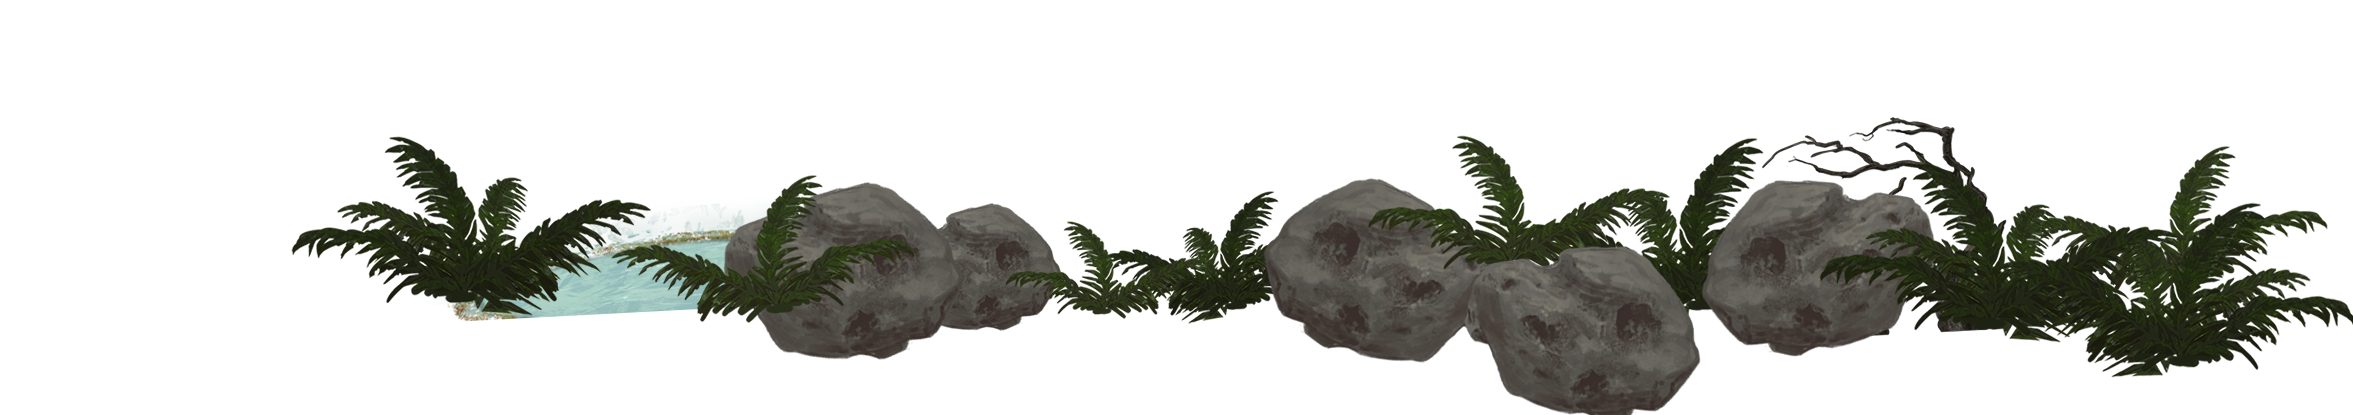
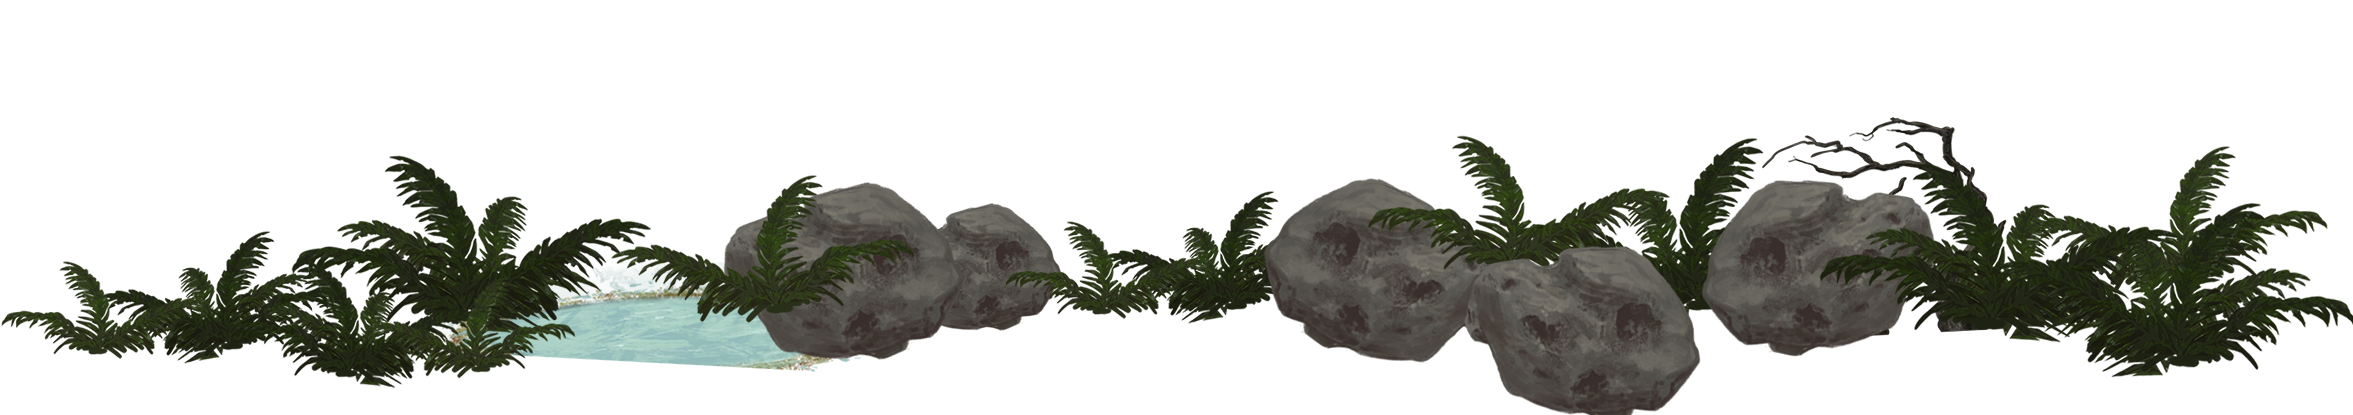
Effect parallax to extras elements

Changed region(s): [[0.0, 0.3181, 0.3723, 0.9253]]

diff --git a/js/player.js b/js/player.js
@@ -66,7 +66,7 @@ var canvasPlayer = document.getElementById('player'),
 			speed: 6,
 			velX: 0,
 			velY: 0,
-			friction: 0.85,
+			friction: 0.82,
 			jumping : false
 		},
 		keys = [],
@@ -88,23 +88,27 @@ var canvasPlayer = document.getElementById('player'),
 	contextBackground.rotate(-5.3 * Math.PI / 180);
 	contextExtras.rotate(-5.3 * Math.PI / 180);
 
+
 	// Create images objects to use in the game.
-	// ATTENTION, for testing, the images must have the url with ip. Does' t work with localhost
 	var backgroundImage1 = new Image(),
 		backgroundImage2 = new Image(),
 
+		// enemies images
 		wolfImage = new Image(),
 		warlockImage = new Image(),
 
-		playerImage = new Image(),
+		// player images
+		playerSpriteRight = new Image(),
+		playerSpriteLeft = new Image(),
 
+		// obstacles images
 		smallRockObstacle = new Image(),
 		bigRockObstacle = new Image(),
 		waterObstacle = new Image(),
 
+		// extras images
 		extras1 = new Image(),
 		extras2 = new Image();
-
 
 	// backgrounds images
 	backgroundImage1.src = 'http://localhost/2d-platform-game/img/background-1.jpg';
@@ -116,11 +120,12 @@ var canvasPlayer = document.getElementById('player'),
 	backgroundImage2.src = 'http://localhost/2d-platform-game/img/background-1.jpg';
 
 	// enemies images
-	wolfImage.src = 'http://localhost/2d-platform-game/img/enemie.png';
+	wolfImage.src = 'http://localhost/2d-platform-game/img/wolf-animation.png';
 	warlockImage.src = 'http://localhost/2d-platform-game/img/warlock.png';
 
 	// player images
-	playerImage.src = 'http://localhost/2d-platform-game/img/player.png';
+	playerSpriteRight.src = 'http://localhost/2d-platform-game/img/player-actions-right.png';
+	playerSpriteLeft.src = 'http://localhost/2d-platform-game/img/player-actions-left.png';
 
 	// obstacles images
 	smallRockObstacle.src = 'http://localhost/2d-platform-game/img/small-rock.png';
@@ -207,6 +212,7 @@ var canvasPlayer = document.getElementById('player'),
 	 */
 	function update () {
 
+		// USAR PARA TODAS LAS COMPARACIONES TRIPLE ===
 		// up arrow or space
 		if (keys[38] || keys[32] || mobileJump) {
 
@@ -215,7 +221,7 @@ var canvasPlayer = document.getElementById('player'),
 			if (!background.jumping) {
 				background.jumping = true;
 
-				setFramesPlayerSprite('jumpingRight', 0, 9, 55);
+				setFramesSpriteAnimation('jumpingRight', 0, 9, 55);
 
 				if (frame == 6) {
 
@@ -233,11 +239,11 @@ var canvasPlayer = document.getElementById('player'),
 		// down arrow
 		if (keys[40] || mobileCrouch) {
 			// Function OK when the player only walk from right
-			setFramesPlayerSprite('crouchRight', 0, 9, 100);
+			setFramesSpriteAnimation('crouchRight', 0, 9, 100);
 
 			if (frame == 4) {
 				// Only show the 6 frame becouse my animation start in 6 and have 1 frame of lenght
-				setFramesPlayerSprite('crouchRight', 4, 1, 100);
+				setFramesSpriteAnimation('crouchRight', 4, 1, 100);
 			}
 		}
 
@@ -247,11 +253,11 @@ var canvasPlayer = document.getElementById('player'),
 
 		// 	if (frame >= 4) {
 
-		// 		setFramesPlayerSprite('crouch', 5, 9, 100);
+		// 		setFramesSpriteAnimation('crouch', 5, 9, 100);
 
 		// 		if (frame == 8) {
-		// 			//setFramesPlayerSprite('crouch', 8, 1, 100);
-		// 			setFramesPlayerSprite('walkingRight', 0, 9, 100);
+		// 			//setFramesSpriteAnimation('crouch', 8, 1, 100);
+		// 			setFramesSpriteAnimation('walkingRight', 0, 9, 100);
 		// 		}
 		// 	}
 		// }
@@ -268,7 +274,7 @@ var canvasPlayer = document.getElementById('player'),
 
 				walkingLeft = true;
 
-				setFramesPlayerSprite('walkingLeft', 0, 9, 100);
+				setFramesSpriteAnimation('walkingLeft', 0, 9, 100);
 			}
 		}
 
@@ -282,28 +288,28 @@ var canvasPlayer = document.getElementById('player'),
 
 				walkingRight = true;
 
-				setFramesPlayerSprite('walkingRight', 0, 9, 100);
+				setFramesSpriteAnimation('walkingRight', 0, 9, 100);
 			}
 		}
 
 		// If the player is on the start position
 		if (walkingLeft == false && walkingRight == false) {
 			if (crouch == false) {
-				setFramesPlayerSprite('walkingStopRight', 0, 9, 100);
+				setFramesSpriteAnimation('walkingStopRight', 0, 9, 100);
 			}
 		}
 
 		// If left arrow is drop
 		if (keys[37] == false) {
 			if (!walkingRight) {
-				setFramesPlayerSprite('walkingStopLeft', 0, 9, 100);
+				setFramesSpriteAnimation('walkingStopLeft', 0, 9, 100);
 			}
 		}
 
 		// If right arrow is drop
 		if (keys[39] == false) {
 			if (!walkingLeft) {
-				setFramesPlayerSprite('walkingStopRight', 0, 9, 100);
+				setFramesSpriteAnimation('walkingStopRight', 0, 9, 100);
 			}
 		}
 
@@ -312,7 +318,7 @@ var canvasPlayer = document.getElementById('player'),
 			player.attack = true;
 
 			// run the sprite animation for the attack
-			setFramesPlayerSprite('attackRight');
+			setFramesSpriteAnimation('attackRight');
 			attacking = true;
 		}
 
@@ -371,27 +377,27 @@ var canvasPlayer = document.getElementById('player'),
 		renders();
 
 
-		var lengthEnemiesArray = enemiesArray.length,
-			lengthobstaclesArray = obstaclesArray.length,
-			j,
-			k,
-			h;
+		// var lengthEnemiesArray = enemiesArray.length,
+		// 	lengthobstaclesArray = obstaclesArray.length,
+		// 	j,
+		// 	k,
+		// 	h;
 
-		// move the enemies
+		// // move the enemies
 		// for (j = 0; lengthEnemiesArray > j; j += 1) {
 		// 	// Check if the velocityX is less that the speed. If this condition is true continuous substracting the velocityX.
 		// 	if (enemiesArray[j].velocityX >- enemiesArray[j].speed) {
 		// 		enemiesArray[j].velocityX--;
 		// 	}
 
-		// 	enemiesArray[j].velocityX *= friction;
+		// 	enemiesArray[j].velocityX *= background.friction;
 
 		// 	enemiesArray[j].x += enemiesArray[j].velocityX;
 		// };
 
-		onObstacle = false;
+		// onObstacle = false;
 
-		//check the collision whit the enemies and if the enemie is out the canvas
+		// //check the collision whit the enemies and if the enemie is out the canvas
 		// for (k = 0; lengthEnemiesArray > k; k += 1) {
 
 		// 	checkCollision(player, enemiesArray[k]);
@@ -446,7 +452,7 @@ var canvasPlayer = document.getElementById('player'),
 	 * renderBackground();
 	 */
 	function renderBackground () {
-		// Less the canvasHeight to the height of the image to position the y positon of the image in the bottom of the page.
+			// Less the canvasHeight to the height of the image to position the y positon of the image in the bottom of the page.
 		var backgroundImage1Difference = backgroundImage1.height - canvasHeight;
 
 		contextBackground.clearRect(0, 0, canvasWidth, canvasHeight);
@@ -489,6 +495,7 @@ var canvasPlayer = document.getElementById('player'),
 
 		for (i = 0; lengthEnemiesArray > i; i += 1) {
 			// plus this: enemiesArray[i].x + background.x: becouse i need to know all time where the background.x is and plus it to the positio of the enemie.
+			// para la animacion hay que hacer otro swech case porque entra al mismo que el del personaje y solmaente se puede dar un case a la vez.
 			contextBackground.drawImage(
 				enemiesArray[i].image,
 				enemiesArray[i].x + background.x,
@@ -496,7 +503,6 @@ var canvasPlayer = document.getElementById('player'),
 				enemiesArray[i].width,
 				enemiesArray[i].height);
 		};
-
 	}
 
 
@@ -529,8 +535,37 @@ var canvasPlayer = document.getElementById('player'),
 	 * renderExtras();
 	 */
 	function renderExtras () {
+// guardar todos los extras1.width etc en variables para q los calcule una sola vez.
+
 		contextExtras.clearRect(-200, 0, canvasWidth + 200, canvasHeight);
-		contextExtras.drawImage(extras1, extras.x, background.y - (extras1.height - canvasHeight), extras1.width, extras1.height);
+
+		if ( -(extras.x) <= (extras1.width - 200) ) {
+			contextExtras.drawImage(extras1, extras.x - 200, background.y - (extras1.height - canvasHeight), extras1.width, extras1.height);
+	 	//contextBackground.drawImage(backgroundImage1, background.x - 200, background.y - backgroundImage1Difference, backgroundImage1.width, backgroundImage1.height);
+		}
+
+		if ( -(extras.x) >= (extras1.width - 200) - canvasWidth  &&  -(background.x) <= ( (extras1.width * 2) - 200 ) ) {
+			contextExtras.drawImage(extras2, extras.x + (extras2.width - 200), background.y - (extras2.height - canvasHeight), extras2.width, extras2.height);
+		//contextBackground.drawImage(backgroundImage1, background.x + (backgroundImage1.width - 200), background.y - backgroundImage1Difference, backgroundImage2.width, backgroundImage2.height);
+		}
+
+		if ( -(extras.x) >= (extras1.width * 2 - 200) - canvasWidth  &&  -(background.x) <= ( (extras1.width * 3) - 200 ) ) {
+			contextExtras.drawImage(extras1, extras.x + ((extras1.width * 2) - 200), background.y - (extras1.height - canvasHeight), extras1.width, extras1.height);
+		//contextBackground.drawImage(backgroundImage1, background.x + ((backgroundImage1.width * 2) - 200), background.y - backgroundImage1Difference, backgroundImage2.width, backgroundImage2.height);
+		}
+
+		if ( -(extras.x) >= (extras1.width * 3 - 200) - canvasWidth  &&  -(background.x) <= ( (extras1.width * 4) - 200 ) ) {
+			contextExtras.drawImage(extras2, extras.x + ((extras2.width * 3) - 200), background.y - (extras2.height - canvasHeight), extras2.width, extras2.height);
+		//contextBackground.drawImage(backgroundImage1, background.x + ((backgroundImage1.width * 3) - 200), background.y - backgroundImage1Difference, backgroundImage2.width, backgroundImage2.height);
+		}
+
+		if ( -(extras.x) >= (extras1.width * 4 - 200) - canvasWidth  &&  -(background.x) <= ( (extras1.width * 5) - 200 ) ) {
+			contextExtras.drawImage(extras1, extras.x + ((extras1.width * 4) - 200), background.y - (extras1.height - canvasHeight), extras1.width, extras1.height);
+
+			//contextBackground.drawImage(backgroundImage1, background.x + ((backgroundImage1.width * 4) - 200), background.y - backgroundImage1Difference, backgroundImage2.width, backgroundImage2.height);
+		}
+
+
 	}
 
 
@@ -754,27 +789,22 @@ var canvasPlayer = document.getElementById('player'),
 		}
 	}
 
+
 	/* Sprite animation */
-	var playerSpriteRight = new Image(),
-		playerSpriteLeft = new Image(),
-		frame = 0,
+	var frame = 0,
 		delta,
 		lastUpdateTime = 0,
 		updateDelta = 0,
 		msPerFrame = 100;
-
-	playerSpriteRight.src = 'http://localhost/2d-platform-game/img/player-actions-right.png';
-	playerSpriteLeft.src = 'http://localhost/2d-platform-game/img/player-actions-left.png';
-
 
 	/**
 	 * Set the frames amount and speed.
 	 * @param {String} walkingRight,
 	 * @function
 	 * @example
-	 * setFramesPlayerSprite('walkingRight', 9, 0, 100);
+	 * setFramesSpriteAnimation('walkingRight', 9, 0, 100);
 	 */
-	function setFramesPlayerSprite (walkingDirection, frameStartPosition, frameCuantity, msPerFrame) {
+	function setFramesSpriteAnimation (walkingDirection, frameStartPosition, frameCuantity, msPerFrame) {
 
 		delta = Date.now() - lastUpdateTime;
 
@@ -820,6 +850,7 @@ var canvasPlayer = document.getElementById('player'),
 		contextPlayer.clearRect(0, 0, canvasWidth, canvasHeight);
 
 		switch (walkingDirection) {
+            //Player
             case 'walkingRight':
           		contextPlayer.drawImage(playerSpriteRight, frame * 149, 0, 149, 200, (canvasWidth / 2) -100, canvasHeight - 355, 149, 200);
             break;
@@ -859,7 +890,6 @@ var canvasPlayer = document.getElementById('player'),
             case 'attackLeft':
             	contextPlayer.drawImage(playerSpriteLeft, frame * 151, 778, 151, 200, (canvasWidth / 2) -100, canvasHeight - 355, 151, 200);
             break;
-
         }
 	}
 
@@ -879,7 +909,7 @@ var canvasPlayer = document.getElementById('player'),
 		renderBackground();
 
 		// Call the function tha render the enemies. I have to call this function random or when y want to a enemie appear.
-		renderEnemies();
+		//renderEnemies();
 
 		// Call the function tha render the obstacles. I have to call this function random or when y want to a obstacle appear.
 		//renderObstacles();
